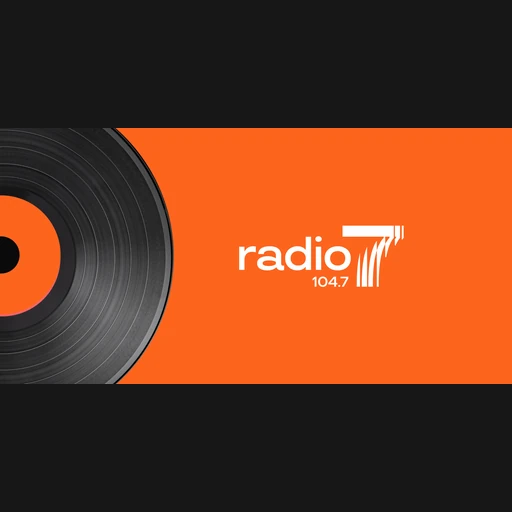
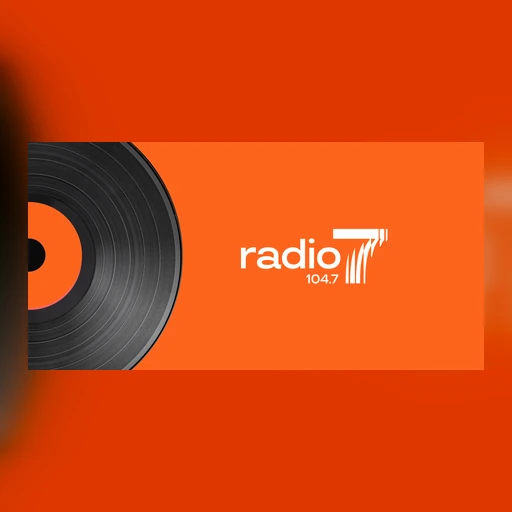
Improve radio artwork and widget backdrop

diff --git a/app/src/main/java/com/mmwtl/atlasmediawidget/MediaCardView.java b/app/src/main/java/com/mmwtl/atlasmediawidget/MediaCardView.java
@@ -115,8 +115,8 @@ final class MediaCardView extends FrameLayout {
         scrim.setBackground(new GradientDrawable(
                 GradientDrawable.Orientation.TOP_BOTTOM,
                 style == CardStyle.COMPACT
-                        ? new int[]{0x5E11151E, 0x2211151E, 0xAD10141B, 0xF510141B}
-                        : new int[]{0x6011151E, 0x1011151E, 0xB010141B, 0xFA10141B}));
+                        ? new int[]{0x5E1D2228, 0x221D2228, 0xAD1D2228, 0xF51D2228}
+                        : new int[]{0x601D2228, 0x101D2228, 0xB01D2228, 0xFA1D2228}));
         addView(scrim, match());
 
         View border = new View(context);
@@ -378,10 +378,10 @@ final class MediaCardView extends FrameLayout {
         textParams.leftMargin = showThumbnail ? d(15) : 0;
         metadata.getChildAt(1).setLayoutParams(textParams);
 
-        LayoutParams placeholderParams = new LayoutParams(d(compact ? 100 : 165), d(compact ? 100 : 165));
-        placeholderParams.gravity = Gravity.TOP | Gravity.END;
-        placeholderParams.topMargin = by(compact ? 62 : 108);
-        placeholderParams.rightMargin = bx(compact ? 30 : 38);
+        int placeholderSize = d(compact ? 150 : 220);
+        LayoutParams placeholderParams = new LayoutParams(placeholderSize, placeholderSize);
+        placeholderParams.gravity = Gravity.TOP | Gravity.CENTER_HORIZONTAL;
+        placeholderParams.topMargin = by(compact ? 58 : 72);
         placeholder.setLayoutParams(placeholderParams);
         placeholder.setVisibility(!hasArtwork && !chooserVisible ? VISIBLE : GONE);
 

diff --git a/app/src/main/java/com/mmwtl/atlasmediawidget/Ui.java b/app/src/main/java/com/mmwtl/atlasmediawidget/Ui.java
@@ -14,7 +14,8 @@ import android.widget.LinearLayout;
 import android.widget.TextView;
 
 final class Ui {
-    static final int BACKGROUND = Color.rgb(23, 23, 23);
+    // Matches the default matte graphite surface used by fx11widget 1.0.0.87.
+    static final int BACKGROUND = Color.rgb(29, 34, 40);
     static final int CARD = Color.rgb(38, 38, 38);
     static final int NESTED = Color.rgb(51, 51, 51);
     static final int PRIMARY = Color.rgb(245, 245, 245);

diff --git a/research/radio-covers-penza/README.md b/research/radio-covers-penza/README.md
@@ -5,7 +5,8 @@ Android-модулю и не находятся в `app/src/main/res`.
 
 ## Состав
 
-- `covers/` — квадратные WebP 512×512, подготовленные для проверки в интерфейсе;
+- `covers/` — квадратные WebP 512×512 с подобранным для каждой станции фоном и
+  безопасными полями вокруг логотипа;
 - `originals/` — скачанные исходники без ручной перерисовки;
 - `manifest.csv` — соответствие частоты, исходного тега, актуальной станции, файла и источника;
 - `contact-sheet.jpg` — обзор всех 25 обложек в порядке возрастания частоты;
@@ -35,4 +36,10 @@ Android-модулю и не находятся в `app/src/main/res`.
 
 ```sh
 ./fetch_and_build.sh
+```
+
+Для повторной композиции из уже сохранённых исходников без сети:
+
+```sh
+ATLAS_RADIO_SKIP_DOWNLOAD=1 ./fetch_and_build.sh
 ```
